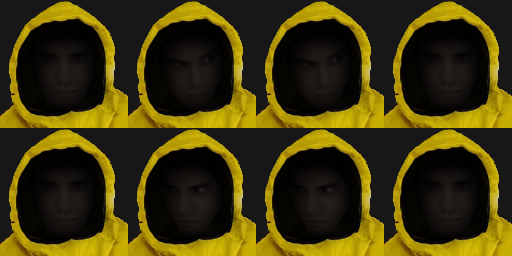
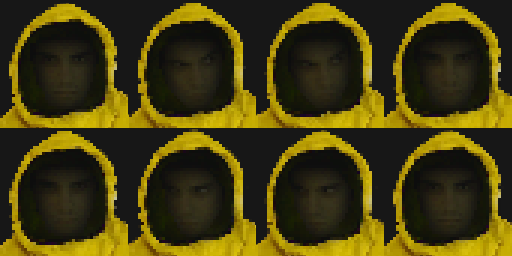
fix: jumpscare overlay and better faces

diff --git a/src/world3d.rs b/src/world3d.rs
@@ -19,27 +19,48 @@ fn sky_floor_region(fb: &mut Framebuffer, y0: i32, vh: i32) {
     }
 }
 
-/// Dibuja una imagen completa a pantalla (overlay)
+/// Overlay en pantalla completa (se mantiene por compatibilidad)
 pub fn draw_overlay_fullscreen(fb: &mut Framebuffer, tex: &TextureManager, key: char) {
+    draw_overlay_viewport(fb, tex, key, 0, 0, fb.width, fb.height);
+}
+
+/// ⬅ NUEVO: Overlay limitado a un rectángulo (viewport 3D)
+pub fn draw_overlay_viewport(
+    fb: &mut Framebuffer,
+    tex: &TextureManager,
+    key: char,
+    x: i32,        // origen X del rect
+    y: i32,        // origen Y del rect
+    w: i32,        // ancho del rect
+    h: i32,        // alto del rect
+) {
     let (src_w, src_h, data) = tex.tex_view(key);
-    if src_w == 0 || src_h == 0 { return; }
+    if src_w == 0 || src_h == 0 || w <= 0 || h <= 0 { return; }
 
-    let dst_w = fb.width as i32;
-    let dst_h = fb.height as i32;
+    // Clampeo básico a los límites del framebuffer
+    let max_x = (x + w).min(fb.width);
+    let max_y = (y + h).min(fb.height);
+    let start_x = x.max(0);
+    let start_y = y.max(0);
+    let dst_w = max_x - start_x;
+    let dst_h = max_y - start_y;
+    if dst_w <= 0 || dst_h <= 0 { return; }
 
-    for y in 0..dst_h {
-        let sy = ((y as f32 / dst_h as f32) * src_h as f32).floor() as i32;
+    for yy in 0..dst_h {
+        // Mapeo nearest al origen del rectángulo
+        let sy = (((yy as f32) / (h as f32)) * (src_h as f32)).floor() as i32;
         let sy = sy.clamp(0, src_h as i32 - 1);
-        for x in 0..dst_w {
-            let sx = ((x as f32 / dst_w as f32) * src_w as f32).floor() as i32;
+        for xx in 0..dst_w {
+            let sx = (((xx as f32) / (w as f32)) * (src_w as f32)).floor() as i32;
             let sx = sx.clamp(0, src_w as i32 - 1);
+
             let idx = (((sy as usize) * src_w) + (sx as usize)) * 4;
             let r = data[idx];
             let g = data[idx + 1];
             let b = data[idx + 2];
             let a = data[idx + 3];
             if a > 0 {
-                fb.put_pixel_rgba(x, y, r, g, b, a);
+                fb.put_pixel_rgba(start_x + xx, start_y + yy, r, g, b, a);
             }
         }
     }
@@ -128,7 +149,7 @@ pub fn render_world_textured(
         }
     }
 
-    // Sprites decorativos (si tienes)
+    // Sprites decorativos
     render_sprites(fb, player, sprites, tex, &zbuf, block_size, time_s, y_off, h);
 
     // Enemigos como sprites animados dinámicos

diff --git a/src/main.rs b/src/main.rs
@@ -151,20 +151,18 @@ fn main() {
             }
             GameState::JumpScare => {
                 render_world_textured(
-                    &mut framebuffer,
-                    &maze,
-                    &player,
-                    block_size,
-                    &tex_manager,
-                    &sprites,
-                    &[], // sin enemigos
-                    time_s,
-                    vp_y0,
-                    vp_h,
+                    &mut framebuffer,&maze,&player,block_size,&tex_manager,&sprites,&[],time_s,
+                    vp_y0, vp_h,
+                );
+                let fb_w = framebuffer.width;
+                // Overlay SOLO en el viewport 3D → no cubre el HUD
+                world3d::draw_overlay_viewport(
+                    &mut framebuffer, &tex_manager, 'j',
+                    0, vp_y0, fb_w, vp_h
                 );
                 hud.render(&mut framebuffer, &tex_manager, &maze, &player, &enemies, block_size);
-                world3d::draw_overlay_fullscreen(&mut framebuffer, &tex_manager, 'j');
             }
+
             GameState::GameOver => {
                 draw_game_over_background(&mut framebuffer);
             }
@@ -196,7 +194,7 @@ fn main() {
                 let y = (screen_h - font_size) / 2;
                 d.draw_text(text, x, y, font_size, Color::RED);
 
-                let sub = "Presiona R para reiniciar • ESC para salir";
+                let sub = "Presiona R para reiniciar - ESC para salir";
                 let sub_size = 24;
                 let sw = d.measure_text(sub, sub_size);
                 let sx = (screen_w - sw) / 2;
